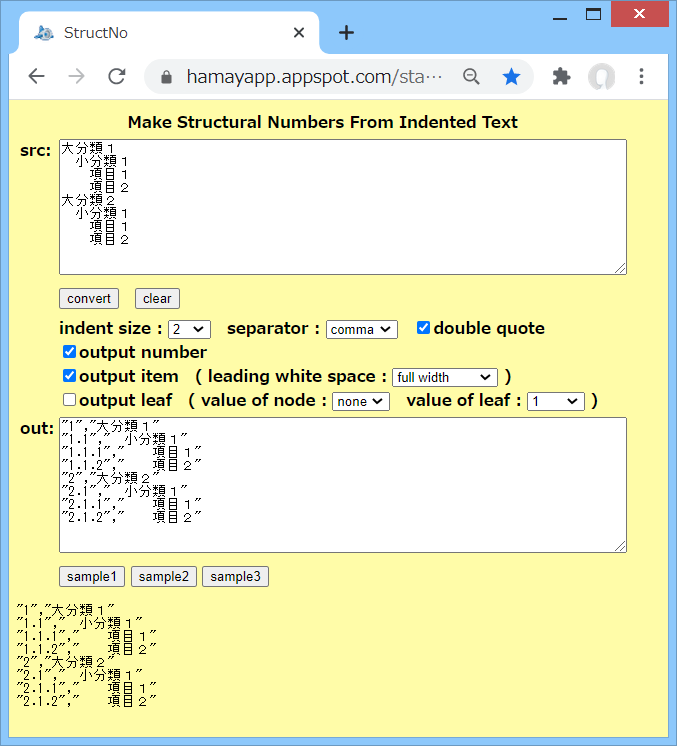
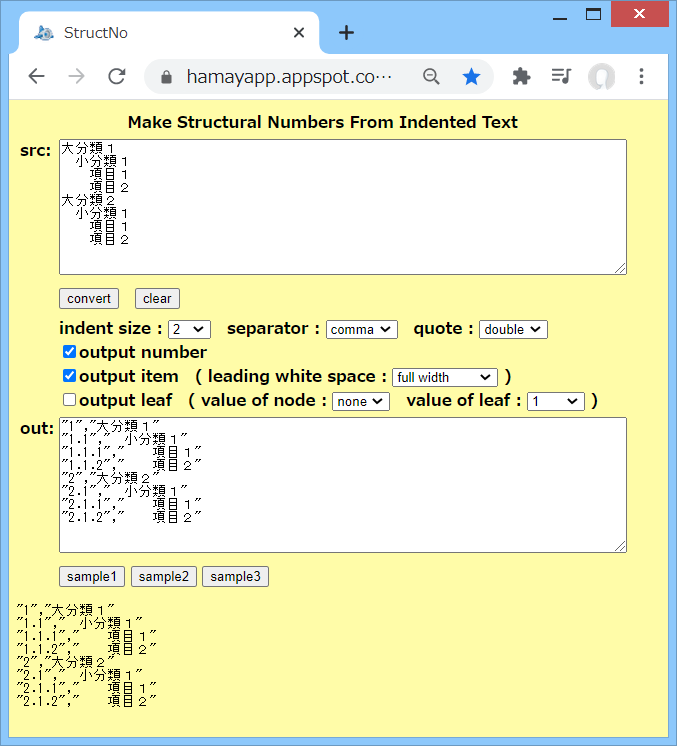
src chg v1.02

diff --git a/structno.html b/structno.html
@@ -5,7 +5,7 @@
 <title>StructNo</title>
 <!--
     structno.html
-    2020-8-12 v1.01
+    2020-8-22 v1.02
 -->
 <style type="text/css">
 <!--
@@ -41,7 +41,7 @@ function convert_button() {
     var src_st;
     var indent_size;
     var separator_type;
-    var add_dquote;
+    var quote_type;
     var show_number;
     var show_item;
     var space_type;
@@ -56,7 +56,7 @@ function convert_button() {
     if (!document.getElementById("src_text1"))         { Alm("convert_button:0001"); return false; }
     if (!document.getElementById("indentsize_select")) { Alm("convert_button:0002"); return false; }
     if (!document.getElementById("separator_select"))  { Alm("convert_button:0003"); return false; }
-    if (!document.getElementById("dquote_check"))      { Alm("convert_button:0004"); return false; }
+    if (!document.getElementById("quote_select"))      { Alm("convert_button:0004"); return false; }
     if (!document.getElementById("number_check"))      { Alm("convert_button:0005"); return false; }
     if (!document.getElementById("item_check"))        { Alm("convert_button:0006"); return false; }
     if (!document.getElementById("space_select"))      { Alm("convert_button:0007"); return false; }
@@ -69,7 +69,7 @@ function convert_button() {
     src_st = document.getElementById("src_text1").value;
     indent_size = document.getElementById("indentsize_select").selectedIndex + 1;
     separator_type = document.getElementById("separator_select").selectedIndex;
-    add_dquote = document.getElementById("dquote_check").checked;
+    quote_type = document.getElementById("quote_select").selectedIndex;
     show_number = document.getElementById("number_check").checked;
     show_item = document.getElementById("item_check").checked;
     space_type = document.getElementById("space_select").selectedIndex;
@@ -77,7 +77,7 @@ function convert_button() {
     node_type = document.getElementById("node_select").selectedIndex;
     leaf_type = document.getElementById("leaf_select").selectedIndex;
     // ***** 変換実行 *****
-    result = StructNo.convert(src_st, indent_size, separator_type, add_dquote,
+    result = StructNo.convert(src_st, indent_size, separator_type, quote_type,
                               show_number, show_item, space_type,
                               show_leaf, node_type, leaf_type);
     // ***** 出力の表示 *****
@@ -171,13 +171,13 @@ function sample_button(sample_no) {
 //
 // 公開I/F :
 //
-//   StructNo.convert(src_st, indent_size, separator_type, add_dquote,
+//   StructNo.convert(src_st, indent_size, separator_type, quote_type,
 //                    show_number, show_item, space_type,
 //                    show_leaf, node_type, leaf_type)  変換実行
 //     src_st          ソース(文字列)
-//     indent_size     インデントの空白数(=1-8)
+//     indent_size     インデントの空白数(=1-10)
 //     separator_type  区切り記号種別(=0:カンマ,=1:タブ,=2:空白(半角))
-//     add_dquote      ダブルクォート追加フラグ(boolean)
+//     quote_type      クォート種別(=0:なし,=1:シングル,=2:ダブル)
 //     show_number     項目番号表示フラグ(boolean)
 //     show_item       項目内容表示フラグ(boolean)
 //     space_type      行頭の空白変換種別(=0:削除,=1:無変換,=2:半角,=3:全角,=4:半角x2,=5:全角x2)
@@ -195,9 +195,9 @@ var StructNo;
 
     // ***** 変数 *****
     var src_st;          // ソース(文字列)
-    var indent_size;     // インデントの空白数(=1-8)
+    var indent_size;     // インデントの空白数(=1-10)
     var separator_type;  // 区切り記号種別(=0:カンマ,=1:タブ,=2:空白(半角))
-    var add_dquote;      // ダブルクォート追加フラグ(boolean)
+    var quote_type;      // クォート種別(=0:なし,=1:シングル,=2:ダブル)
     var show_number;     // 項目番号表示フラグ(boolean)
     var show_item;       // 項目内容表示フラグ(boolean)
     var space_type;      // 行頭の空白変換種別(=0:削除,=1:無変換,=2:半角,=3:全角,=4:半角x2,=5:全角x2)
@@ -216,7 +216,7 @@ var StructNo;
     // ***** 公開I/F *****
 
     // ***** 変換実行 *****
-    function convert(src_st1, indent_size1, separator_type1, add_dquote1,
+    function convert(src_st1, indent_size1, separator_type1, quote_type1,
                      show_number1, show_item1, space_type1,
                      show_leaf1, node_type1, leaf_type1) {
         var i, j;
@@ -239,7 +239,7 @@ var StructNo;
         if (src_st1 == null)         { Alm("StructNo.convert:0001"); return result; }
         if (indent_size1 == null)    { Alm("StructNo.convert:0002"); return result; }
         if (separator_type1 == null) { Alm("StructNo.convert:0003"); return result; }
-        if (add_dquote1 == null)     { Alm("StructNo.convert:0004"); return result; }
+        if (quote_type1 == null)     { Alm("StructNo.convert:0004"); return result; }
         if (show_number1 == null)    { Alm("StructNo.convert:0005"); return result; }
         if (show_item1 == null)      { Alm("StructNo.convert:0006"); return result; }
         if (space_type1 == null)     { Alm("StructNo.convert:0007"); return result; }
@@ -255,7 +255,7 @@ var StructNo;
         indent_size = indent_size1 | 0;
         if (indent_size <= 0) { indent_size = 1; }
         separator_type = separator_type1 | 0;
-        add_dquote = add_dquote1;
+        quote_type = quote_type1 | 0;
         show_number = show_number1;
         show_item = show_item1;
         space_type = space_type1 | 0;
@@ -324,21 +324,21 @@ var StructNo;
             line_out_st[i] = "";
             // (項目番号を出力)
             if (show_number) {
-                line_out_st[i] += add_dquote_sub(number_st);
+                line_out_st[i] += add_quote(number_st);
             }
             // (項目内容を出力)
             if (show_item) {
                 if (show_number) {
                     line_out_st[i] += get_separator();
                 }
-                line_out_st[i] += add_dquote_sub(item_st);
+                line_out_st[i] += add_quote(item_st);
             }
             // (葉の値を出力)
             if (show_leaf) {
                 if (show_number || show_item) {
                     line_out_st[i] += get_separator();
                 }
-                line_out_st[i] += add_dquote_sub(leaf_st);
+                line_out_st[i] += add_quote(leaf_st);
             }
         }
         out_st = line_out_st.join("\n");
@@ -404,14 +404,21 @@ var StructNo;
         }
     }
 
-    // ***** ダブルクォートの追加 *****
-    function add_dquote_sub(str) {
-        if (add_dquote) {
-            // (データ内のダブルクォートは2倍に増やす)
-            return "\"" + str.replace(/"/g, "\"\"") + "\"";
+    // ***** クォートの追加 *****
+    function add_quote(str) {
+        switch (quote_type) {
+            case 1:
+                // シングルクォート追加
+                // (データ内のシングルクォートは2倍に増やす)
+                return "'" + str.replace(/'/g, "''") + "'";
+            case 2:
+                // ダブルクォート追加
+                // (データ内のダブルクォートは2倍に増やす)
+                return "\"" + str.replace(/"/g, "\"\"") + "\"";
+            default:
+                // クォート追加なし
+                return str;
         }
-        // (ダブルクォート追加なしのとき)
-        return str;
     }
 
     // ***** ノードの値の取得 *****
@@ -500,7 +507,11 @@ separator : <select id="separator_select">
 <option value="1">tab</option>
 <option value="2">space</option>
 </select> &nbsp;
-<input type="checkbox" id="dquote_check" checked><label for="dquote_check">double quote</label><br>
+quote : <select id="quote_select">
+<option value="0">none</option>
+<option value="1">single</option>
+<option value="2" selected>double</option>
+</select><br>
 <input type="checkbox" id="number_check" checked><label for="number_check">output number</label><br>
 <input type="checkbox" id="item_check" checked><label for="item_check">output item</label> &nbsp;
 ( leading white space : <select id="space_select">

diff --git a/README.md b/README.md
@@ -23,8 +23,11 @@
 - separator コンボボックスでは、出力の項目間の区切り記号を指定します。  
   カンマ、タブ、スペース(半角) のいずれかを指定できます。
 
-- double quote チェックボックスにチェックを入れると、  
-  出力の各項目をダブルクォート(")で囲って出力します。  
+- quote コンボボックスでは、出力の各項目をクォートで囲って出力するかどうかを指定します。  
+  none を選択すると、出力の各項目をクォートで囲いません。  
+  single を選択すると、出力の各項目をシングルクォート(')で囲って出力します。  
+  (このとき、データ内のシングルクォート自身は、連続するシングルクォート 2 個に変換されます)  
+  double を選択すると、出力の各項目をダブルクォート(")で囲って出力します。  
   (このとき、データ内のダブルクォート自身は、連続するダブルクォート 2 個に変換されます)
 
 - output number チェックボックスにチェックを入れると、  
@@ -69,6 +72,7 @@
 ## 履歴
 - 2020-8-11  v1.00 (初版)
 - 2020-8-12  v1.01 一部処理見直し(文字列の繰り返し等)
+- 2020-8-22  v1.02 クォートの選択項目を追加
 
 
-(2020-8-13)
+(2020-8-22)
